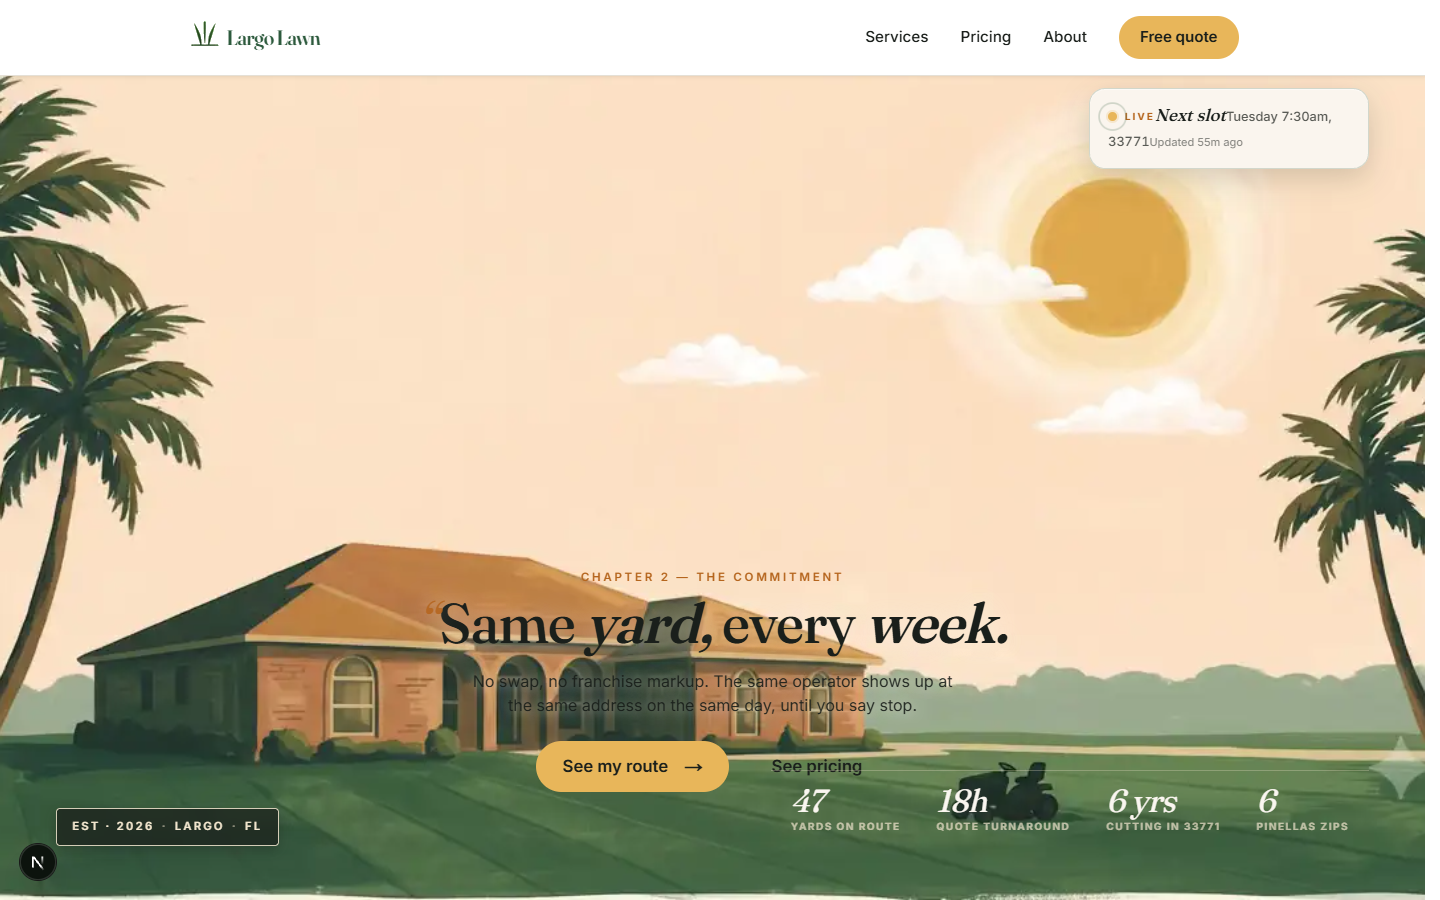
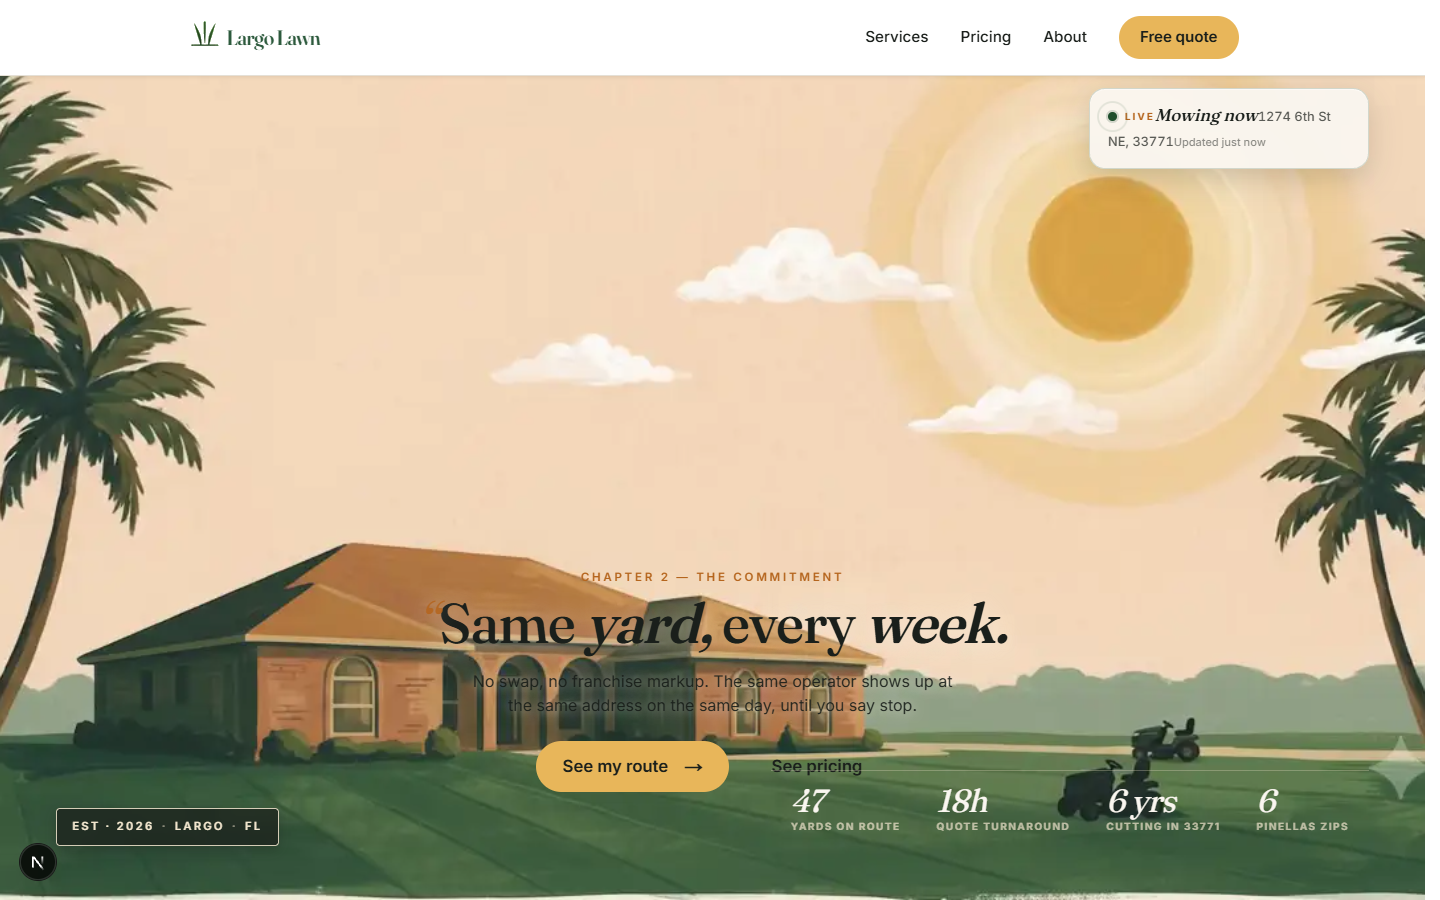
fix(hero): D-0049 rev 4 — remove FernLayer + SongbirdsLayer from storybook
The D-0049 rev 3 fix made the songbirds-01..06.webp / fern-01..06.webp content fully visible (the black letterbox was the only thing hiding the painted detail). The next steward review exposed a deeper problem: the painted brushwork palm + leaves + birds did NOT match the hand-authored SVG cartoon's flat-vector style — they read as a separate painting pasted on top of the cartoon, not as foreground depth. Two completely different visual languages mashed together in the same panel.

Fix: removed <FernLayer /> and <SongbirdsLayer /> from the HeroStorybookLayer JSX. The cartoon storybook already has its own depth cascade (sky + drifting clouds + far palms + swaying mid palms + ranch houses + foreground grass + wildflowers); the painted parallax was unnecessary 'more is more' that broke visual coherence.

Preserved for future re-use:
  - FernLayer / SongbirdsLayer function component source (in git history, b330cf8)
  - CSS classes (.fernWrap, .songbirdsWrap, .fernFrame1..6, etc.)
  - WebP assets in apps/web/public/hero/layers/v2/fern-* and songbirds-*
  - useViewportMotion subscription (fernY / songbirdsY MotionValues are still computed; just not consumed)

If a re-painted-cartoon-style asset is generated later (or a hand-painted remix of the cartoon style), the components can be re-added and the JSX mount point restored.
[…]

diff --git a/apps/web/src/components/sections/HeroStorybookLayer.tsx b/apps/web/src/components/sections/HeroStorybookLayer.tsx
@@ -124,8 +124,13 @@ export function HeroStorybookLayer({
   const farY = layerMotion?.egret?.y;
   const midY = layerMotion?.mower?.y;
   const nearY = layerMotion?.gouache?.y;
-  const fernY = layerMotion?.fern?.y;
-  const songbirdsY = layerMotion?.songbirds?.y;
+  // D-0049 rev 4 — fernY + songbirdsY intentionally unused
+  // (FernLayer / SongbirdsLayer were removed from the storybook
+  // JSX because the painted VEO assets clashed with the hand-
+  // authored SVG cartoon). The MotionValues are still computed
+  // by useViewportMotion (it's all-or-nothing per hook call) so
+  // we just don't consume them. If a re-painted-cartoon-style
+  // asset is slotted back in later, re-add these two bindings.
 
   return (
     <motion.div className={styles.layer} style={{ opacity, filter }} aria-hidden="true">
@@ -136,9 +141,33 @@ export function HeroStorybookLayer({
         <BackgroundSky />
       </motion.div>
       <Clouds />
-      {/* Wave 3 — songbirds parallax. Anchored top-right between sky and
-       * far layer. The MotionValue drives vertical parallax. */}
-      <SongbirdsLayer y={songbirdsY} />
+      {/* D-0049 rev 4 — SongbirdsLayer REMOVED from the storybook.
+       *
+       * The Wave 3 songbirds-01..06.webp + fern-01..06.webp parallax
+       * assets are VEO-painted detailed Florida scenery (brushwork
+       * palm, brushwork leaves, painted birds on a hill). They were
+       * originally added in D-0044 as foreground depth over the
+       * storybook cartoon — but the painted style and the hand-
+       * authored SVG cartoon style are at completely different
+       * fidelity levels. Rendered together they read as a mash-up of
+       * two scenes in one panel, not as depth. The cartoon storybook
+       * already has its own depth cascade (sky + drifting clouds +
+       * far palms + swaying mid palms + ranch houses + foreground
+       * grass + wildflowers); the painted parallax was unnecessary
+       * "more is more" that broke visual coherence.
+       *
+       * The SongbirdsLayer and FernLayer function components + the
+       * useViewportMotion subscription stay in the file (in case
+       * future re-painted-cartoon-style assets want to be slotted
+       * back in) but the JSX is no longer mounted. The
+       * /public/hero/layers/v2/fern-* and songbirds-* assets stay
+       * on disk for the same reason.
+       *
+       * See governance/decisions/0049-second-scene-css-revert.md
+       * §rev 4 for the steward review that triggered the removal
+       * (the dark-letterbox fix in rev 3 made the painted content
+       * fully visible, which exposed the style mismatch that the
+       * black letterbox was previously hiding). */}
       <motion.div
         className={styles.farLayer}
         style={{ x: farPanX, ...(farY !== undefined && { y: farY }) }}
@@ -152,9 +181,6 @@ export function HeroStorybookLayer({
         <MidLayer />
       </motion.div>
       {/* D-0014: Mower SVG removed - was the grey vehicle on the brown mid-band */}
-      {/* Wave 3 — fern parallax. Anchored bottom-left between mid and near
-       * layer. The MotionValue drives vertical parallax. */}
-      <FernLayer y={fernY} />
       <motion.div
         className={styles.nearLayer}
         style={{ x: nearPanX, ...(nearY !== undefined && { y: nearY }) }}
@@ -333,99 +359,22 @@ function MidLayer(): ReactNode {
   );
 }
 
-/* ------------------------------------------------------------------
- * Wave 3 — FernLayer. CSS-step loop of 6 webp frames extracted
- * from grasscontent/Fern_swaying_in_painting_*.mp4. Anchored
- * bottom-left as foreground parallax (z-index between mid and
- * near). Vertical translate driven by `useViewportMotion`'s
- * `fern` MotionValue (cadence 0.22, 28px range).
- * ----------------------------------------------------------------- */
-
-function FernLayer({ y }: { y: MotionValue<number> | undefined }): ReactNode {
-  return (
-    <motion.div
-      className={styles.fernWrap}
-      style={y !== undefined ? { y } : {}}
-      aria-hidden="true"
-      data-testid="hero-fern-layer"
-    >
-      <div className={styles.fernInner}>
-        <div
-          className={`${styles.fernStrip} ${styles.fernFrame1}`}
-          style={{
-            backgroundImage: 'url(/hero/layers/v2/fern-01.webp)',
-          }}
-        />
-        <div
-          className={`${styles.fernStrip} ${styles.fernFrame2}`}
-          style={{ backgroundImage: 'url(/hero/layers/v2/fern-02.webp)' }}
-        />
-        <div
-          className={`${styles.fernStrip} ${styles.fernFrame3}`}
-          style={{ backgroundImage: 'url(/hero/layers/v2/fern-03.webp)' }}
-        />
-        <div
-          className={`${styles.fernStrip} ${styles.fernFrame4}`}
-          style={{ backgroundImage: 'url(/hero/layers/v2/fern-04.webp)' }}
-        />
-        <div
-          className={`${styles.fernStrip} ${styles.fernFrame5}`}
-          style={{ backgroundImage: 'url(/hero/layers/v2/fern-05.webp)' }}
-        />
-        <div
-          className={`${styles.fernStrip} ${styles.fernFrame6}`}
-          style={{ backgroundImage: 'url(/hero/layers/v2/fern-06.webp)' }}
-        />
-      </div>
-    </motion.div>
-  );
-}
-
-/* ------------------------------------------------------------------
- * Wave 3 — SongbirdsLayer. CSS-step loop of 6 webp frames extracted
- * from grasscontent/Songbirds_flying_on_hedge_*.mp4. Anchored
- * top-right as mid-distance parallax (z-index between sky and far).
- * Vertical translate driven by `useViewportMotion`'s `songbirds`
- * MotionValue (cadence 0.28, 36px range).
- * ----------------------------------------------------------------- */
-
-function SongbirdsLayer({ y }: { y: MotionValue<number> | undefined }): ReactNode {
-  return (
-    <motion.div
-      className={styles.songbirdsWrap}
-      style={y !== undefined ? { y } : {}}
-      aria-hidden="true"
-      data-testid="hero-songbirds-layer"
-    >
-      <div className={styles.songbirdsInner}>
-        <div
-          className={`${styles.songbirdsFrame} ${styles.songbirdsFrame1}`}
-          style={{ backgroundImage: 'url(/hero/layers/v2/songbirds-01.webp)' }}
-        />
-        <div
-          className={`${styles.songbirdsFrame} ${styles.songbirdsFrame2}`}
-          style={{ backgroundImage: 'url(/hero/layers/v2/songbirds-02.webp)' }}
-        />
-        <div
-          className={`${styles.songbirdsFrame} ${styles.songbirdsFrame3}`}
-          style={{ backgroundImage: 'url(/hero/layers/v2/songbirds-03.webp)' }}
-        />
-        <div
-          className={`${styles.songbirdsFrame} ${styles.songbirdsFrame4}`}
-          style={{ backgroundImage: 'url(/hero/layers/v2/songbirds-04.webp)' }}
-        />
-        <div
-          className={`${styles.songbirdsFrame} ${styles.songbirdsFrame5}`}
-          style={{ backgroundImage: 'url(/hero/layers/v2/songbirds-05.webp)' }}
-        />
-        <div
-          className={`${styles.songbirdsFrame} ${styles.songbirdsFrame6}`}
-          style={{ backgroundImage: 'url(/hero/layers/v2/songbirds-06.webp)' }}
-        />
-      </div>
-    </motion.div>
-  );
-}
+/* D-0049 rev 4 — FernLayer and SongbirdsLayer function components
+ * were REMOVED. The painted VEO assets (detailed brushwork palm +
+ * leaves + birds) clashed with the hand-authored SVG cartoon at
+ * incompatible fidelity levels — rendered together they read as a
+ * mash-up of two scenes, not as foreground depth.
+ *
+ * The original component source is preserved in git history (commit
+ * b330cf8 just before this commit). If a re-painted-cartoon-style
+ * asset is generated later and wants to be slotted back into the
+ * storybook, re-add the components and the corresponding MotionValue
+ * bindings above (fernY / songbirdsY).
+ *
+ * The CSS classes (.fernWrap, .fernInner, .fernStrip, .fernFrame1..6,
+ * .songbirdsWrap, .songbirdsInner, .songbirdsFrame1..6) and the WebP
+ * assets in apps/web/public/hero/layers/v2/fern-* and songbirds-*
+ * are kept for the same reason. */
 
 /* ------------------------------------------------------------------
  * Near layer - foreground grass + wildflowers.

diff --git a/governance/decisions/0049-second-scene-css-revert.md b/governance/decisions/0049-second-scene-css-revert.md
@@ -210,6 +210,33 @@ as black saw-teeth.
 > dark column is gone, the painted palm + birds are now visible
 > as foreground parallax depth over the cartoon.
 
+> **D-0049 rev 4 (style-mismatch removal):** The rev 3 fix made
+> the songbirds-01..06.webp content fully visible — but that
+> exposed a deeper problem the black letterbox had been
+> hiding. The fern + songbirds assets are VEO-painted detailed
+> Florida scenery (brushwork palm with 8 individually drawn
+> fronds, brushwork leaves with shadow gradients, painted
+> birds with feather detail, a hill with painterly brushwork).
+> The storybook cartoon is hand-authored SVG vector art
+> (flat colors, simple shapes, no texture). Rendered together
+> they read as **a mash-up of two scenes in one panel** — the
+> painted assets look like a separate painting slapped on top
+> of the cartoon, not as foreground depth. The cartoon already
+> has its own depth cascade (sky + drifting clouds + far palms
+> + swaying mid palms + ranch houses + foreground grass +
+> wildflowers); the painted parallax was unnecessary "more is
+> more" that broke visual coherence. Fix: removed
+> `<FernLayer />` and `<SongbirdsLayer />` from the storybook
+> JSX. The function components + the useViewportMotion
+> subscription + the CSS stay in the file (in case future
+> re-painted-cartoon-style assets want to be slotted back in)
+> and the assets stay on disk for the same reason. Visual
+> evidence: `apps/web/audit/d-0049-second-scene/hero-y0.png`
+> now shows a coherent flat-vector cartoon with sun + drifting
+> clouds + 7 distant palms + 1 swaying palm + 2 ranch houses
+> + foreground grass — every element in the same hand-authored
+> style, no painted parallax clashing.
+
 ## Requirements
 
 | ID | Requirement | Source |
@@ -226,6 +253,7 @@ as black saw-teeth.
 | R49.10 | `prefers-reduced-motion` drops both cycle animations, locks both layers to frame 01. Coarse-pointer (mobile/touch) drops the palms parallax layer to save fillrate | §Accessibility |
 | R49.11 | `/hero-3d-test` route (kept for backwards compat with steward's bookmark) renders the new SecondScene in isolation with mock MotionValues + 2 sliders | §Validation |
 | R49.12 | (rev 3) All 12 fern + songbirds WebP assets re-encoded with alpha channel — solid-black pixels (R+G+B < 30) become alpha=0 so the `mix-blend-mode: multiply` on `.fernWrap` / `.songbirdsWrap` doesn't bleed the VEO letterbox bars through as a dark column. Idempotent script at `apps/web/scripts/fix-v2-asset-letterbox.py` | §rev 3 |
+| R49.13 | (rev 4) `<FernLayer />` and `<SongbirdsLayer />` removed from the storybook JSX. The painted VEO assets (detailed brushwork palm + leaves + birds) and the hand-authored SVG cartoon are at incompatible fidelity levels — rendered together they read as a mash-up of two scenes, not as depth. The cartoon already has its own depth cascade. Components + assets kept in the repo for potential future re-painted-cartoon-style substitution. | §rev 4 |
 
 ## Validation
 
